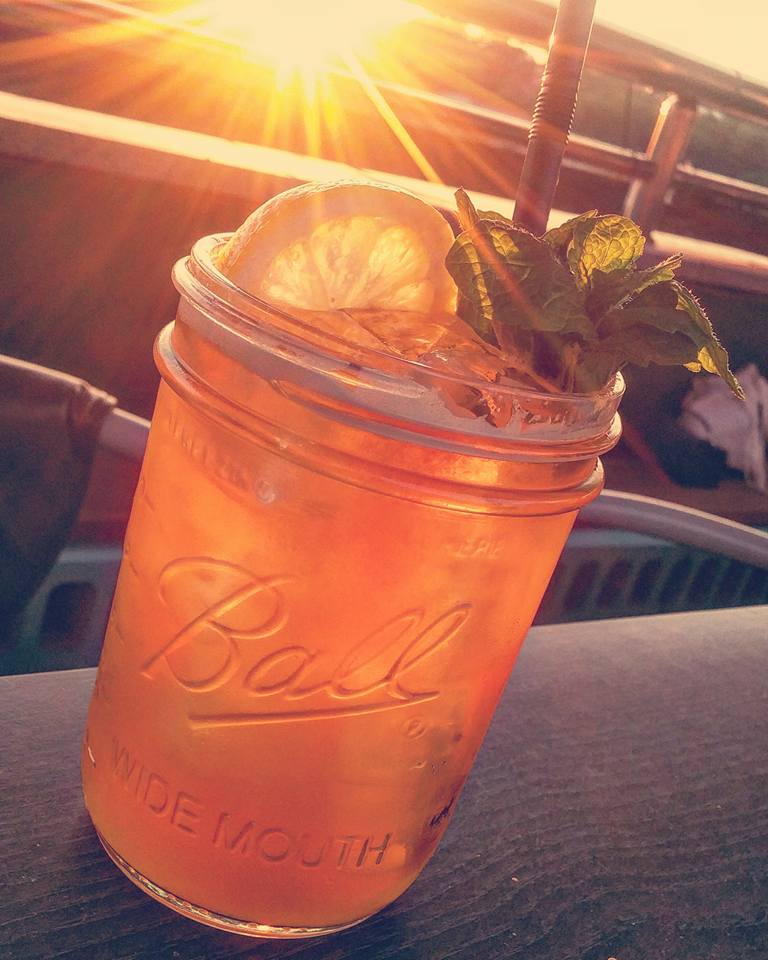
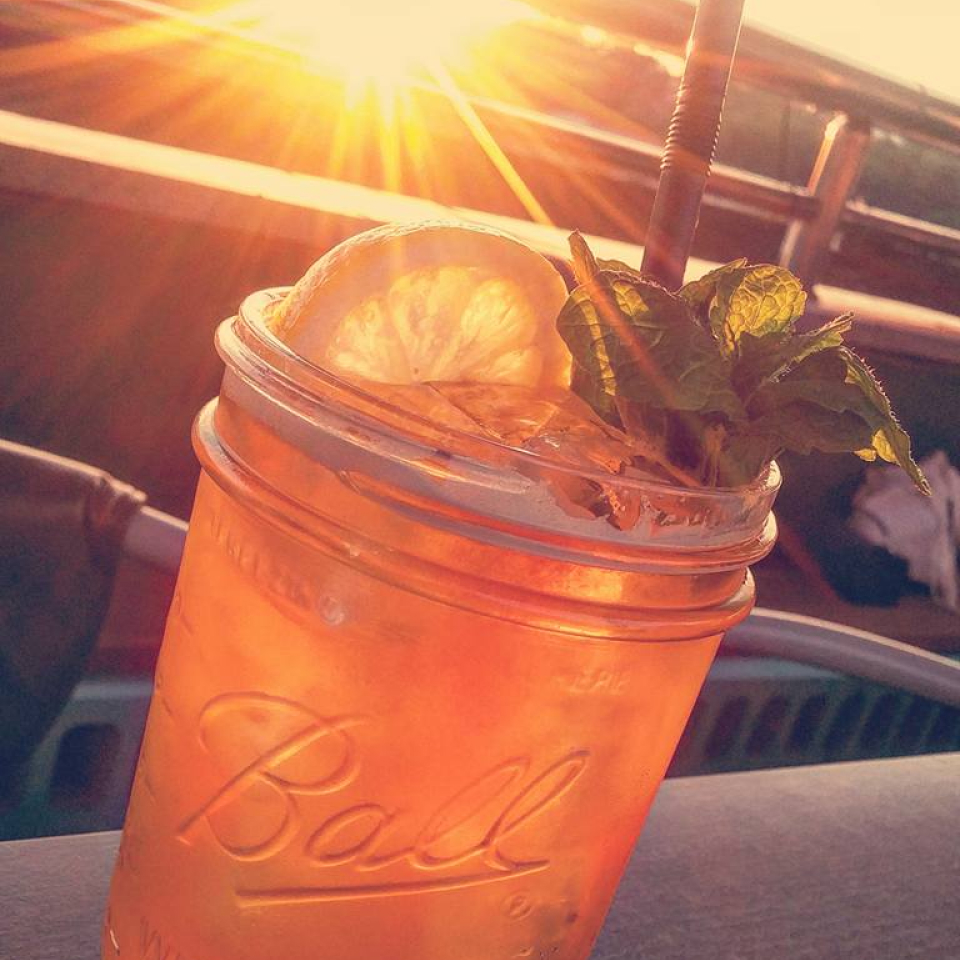
styled images in 2x2 grid

diff --git a/styles.css b/styles.css
@@ -280,11 +280,10 @@ h3 {
   }
 
   .container__images {
-      display: flex;
-      flex-direction: column;
-      justify-content: center;
-      align-items: center;
-    }
+      display: grid;
+      grid-template-columns: 1fr 1fr;
+      grid-gap: .5em;
+  }
 
   .container__images img {
     width: 100%;
